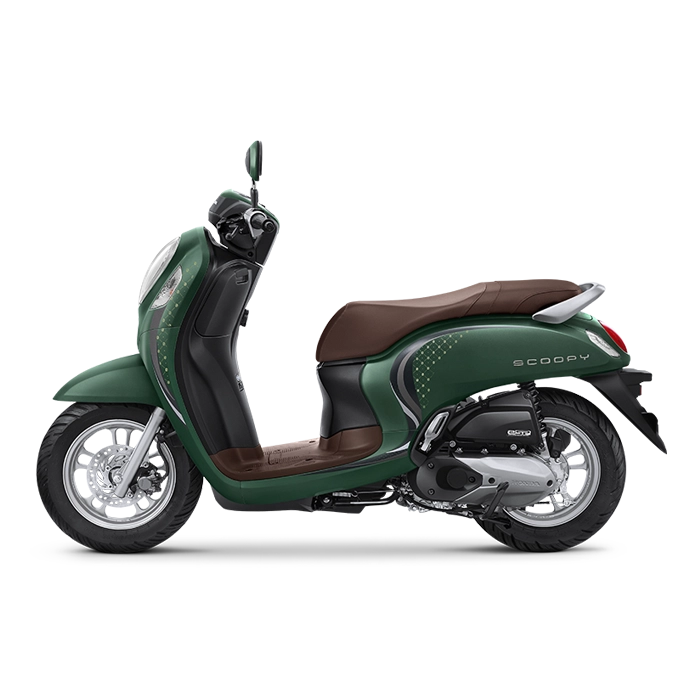
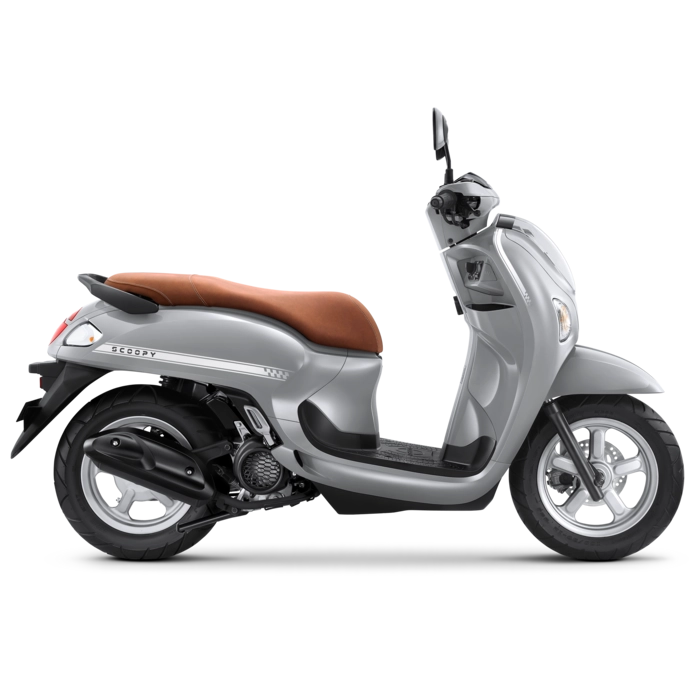
feat(bikes): update bike models with new color variants and images
- Add new color variants for Vario 125, Vario 125 Street, Genio, and Scoopy models
- Remove old color variant images and update references in constants
- Introduce new Vario 125 Street model with its color options

diff --git a/constants/index.ts b/constants/index.ts
@@ -13,11 +13,31 @@ export const allBikes = [
     price: 24,
     image: "/bikes/vario125.png",
     colorVariant: [
-      "/bikes/v125/v125-matteblack.png",
-      "/bikes/v125/v125-matteblue.png",
-      "/bikes/v125/v125-mattered.png",
-      "/bikes/v125/v125-black.png",
-      "/bikes/v125/v125-redblack.png",
+      "/bikes/v125/black.png",
+      "/bikes/v125/blue.png",
+      "/bikes/v125/matte-black.png",
+      "/bikes/v125/matte-red.png",
+      "/bikes/v125/mint.png",
+      "/bikes/v125/red.png",
+    ],
+  },
+  {
+    model: "Vario 125 Street",
+    spec: {
+      engineType: "4-Langkah, SOHC, eSP, Pendinginan Cairan",
+      displacement: "124,8 cc",
+      maxPower: "8,2 kW (11,1 PS) / 8.500 rpm",
+      maxTorque: "10,8 Nm (1,1 kgf.m) / 5.000 rpm",
+      brakingSystem: "Combi Brake System (CBS)",
+    },
+    transmissionType: "Matic",
+    keyless: true,
+    price: 26,
+    image: "/bikes/v125-street.png",
+    colorVariant: [
+      "/bikes/v125street/purple.png",
+      "/bikes/v125street/black.png",
+      "/bikes/v125street/black-white.png",
     ],
   },
   {
@@ -101,12 +121,12 @@ export const allBikes = [
     price: 20,
     image: "/bikes/genio.png",
     colorVariant: [
-      "/bikes/genio/fblack.png",
-      "/bikes/genio/fblue.png",
-      "/bikes/genio/fgreen.png",
-      "/bikes/genio/rblack.png",
-      "/bikes/genio/redblack.png",
-      "/bikes/genio/rsblack.png",
+      "/bikes/genio/tritone.png",
+      "/bikes/genio/black.png",
+      "/bikes/genio/blackwhite.png",
+      "/bikes/genio/matteblack.png",
+      "/bikes/genio/mattebrown.png",
+      "/bikes/genio/mattegreen.png",
     ],
   },
   {
@@ -123,14 +143,16 @@ export const allBikes = [
     price: 23,
     image: "/bikes/scoopy.png",
     colorVariant: [
-      "/bikes/scoopy/fblue.png",
-      "/bikes/scoopy/fbrown.png",
+      "/bikes/scoopy/beige.png",
+      "/bikes/scoopy/black.png",
+      "/bikes/scoopy/cream.png",
+      "/bikes/scoopy/green.png",
+      "/bikes/scoopy/grey.png",
+      "/bikes/scoopy/mint.png",
       "/bikes/scoopy/pblack.png",
+      "/bikes/scoopy/ped.png",
       "/bikes/scoopy/pwhite.png",
-      "/bikes/scoopy/sgreen.png",
-      "/bikes/scoopy/sgrey.png",
-      "/bikes/scoopy/sred.png",
-      "/bikes/scoopy/sreds.png",
+      "/bikes/scoopy/red.png",
     ],
   },
   {
